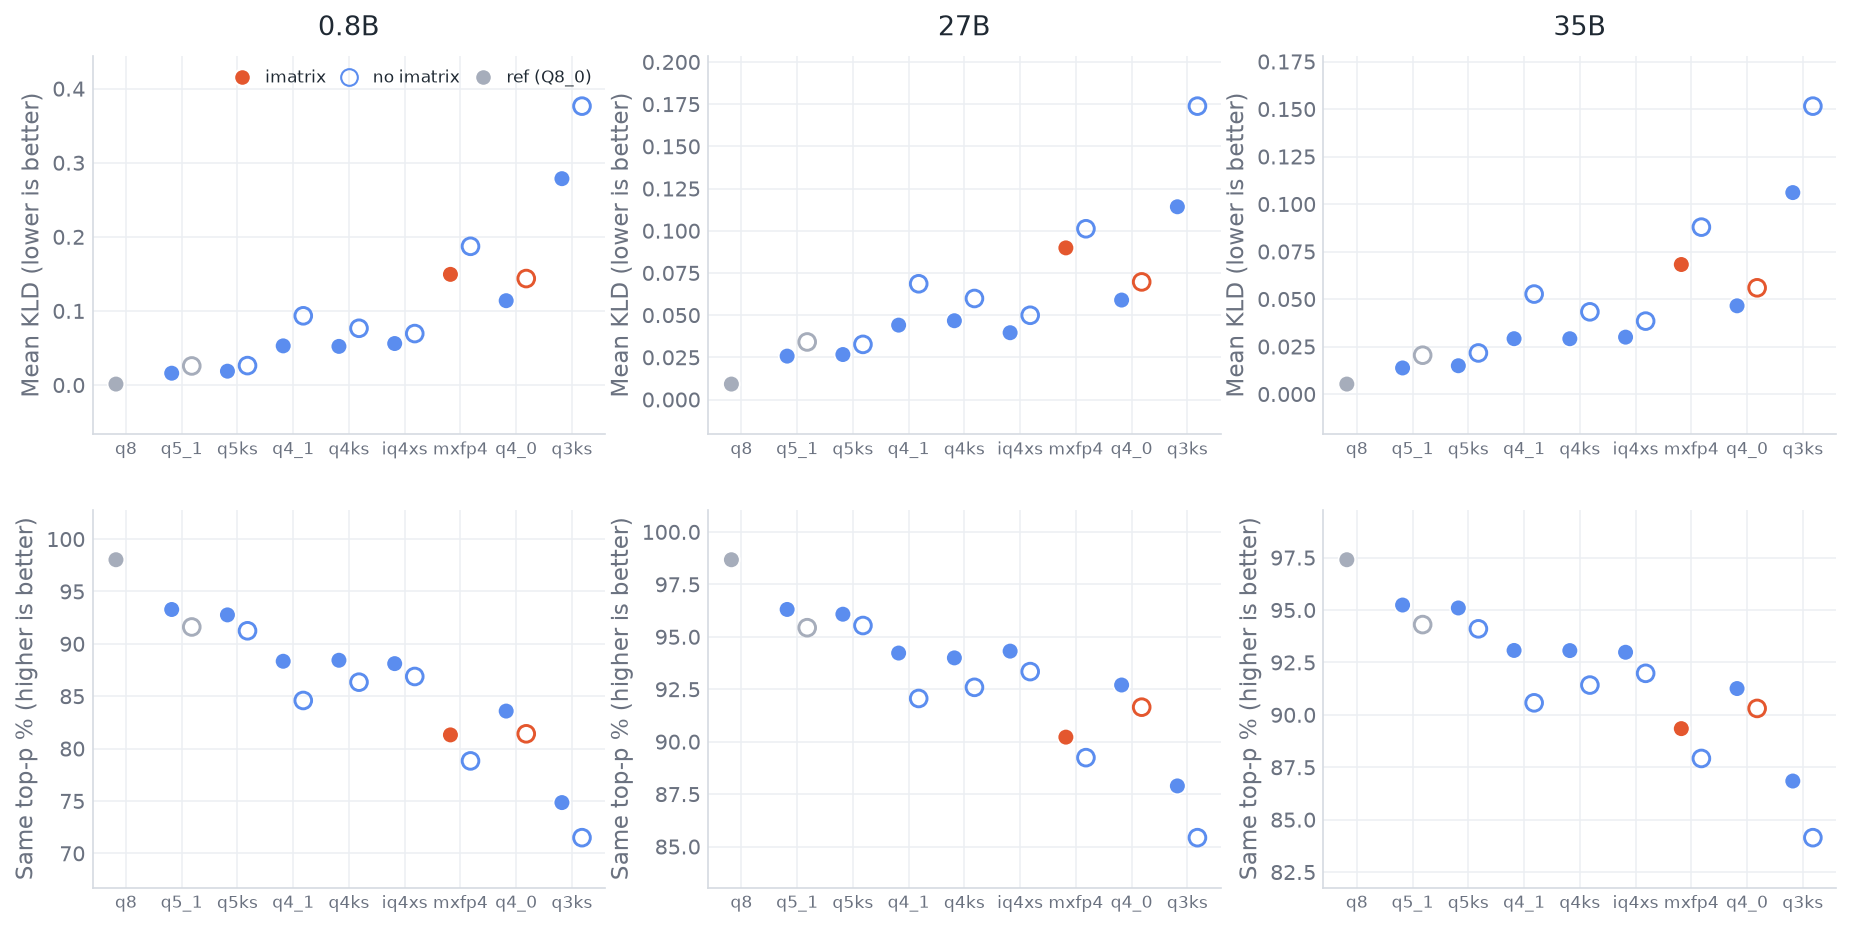
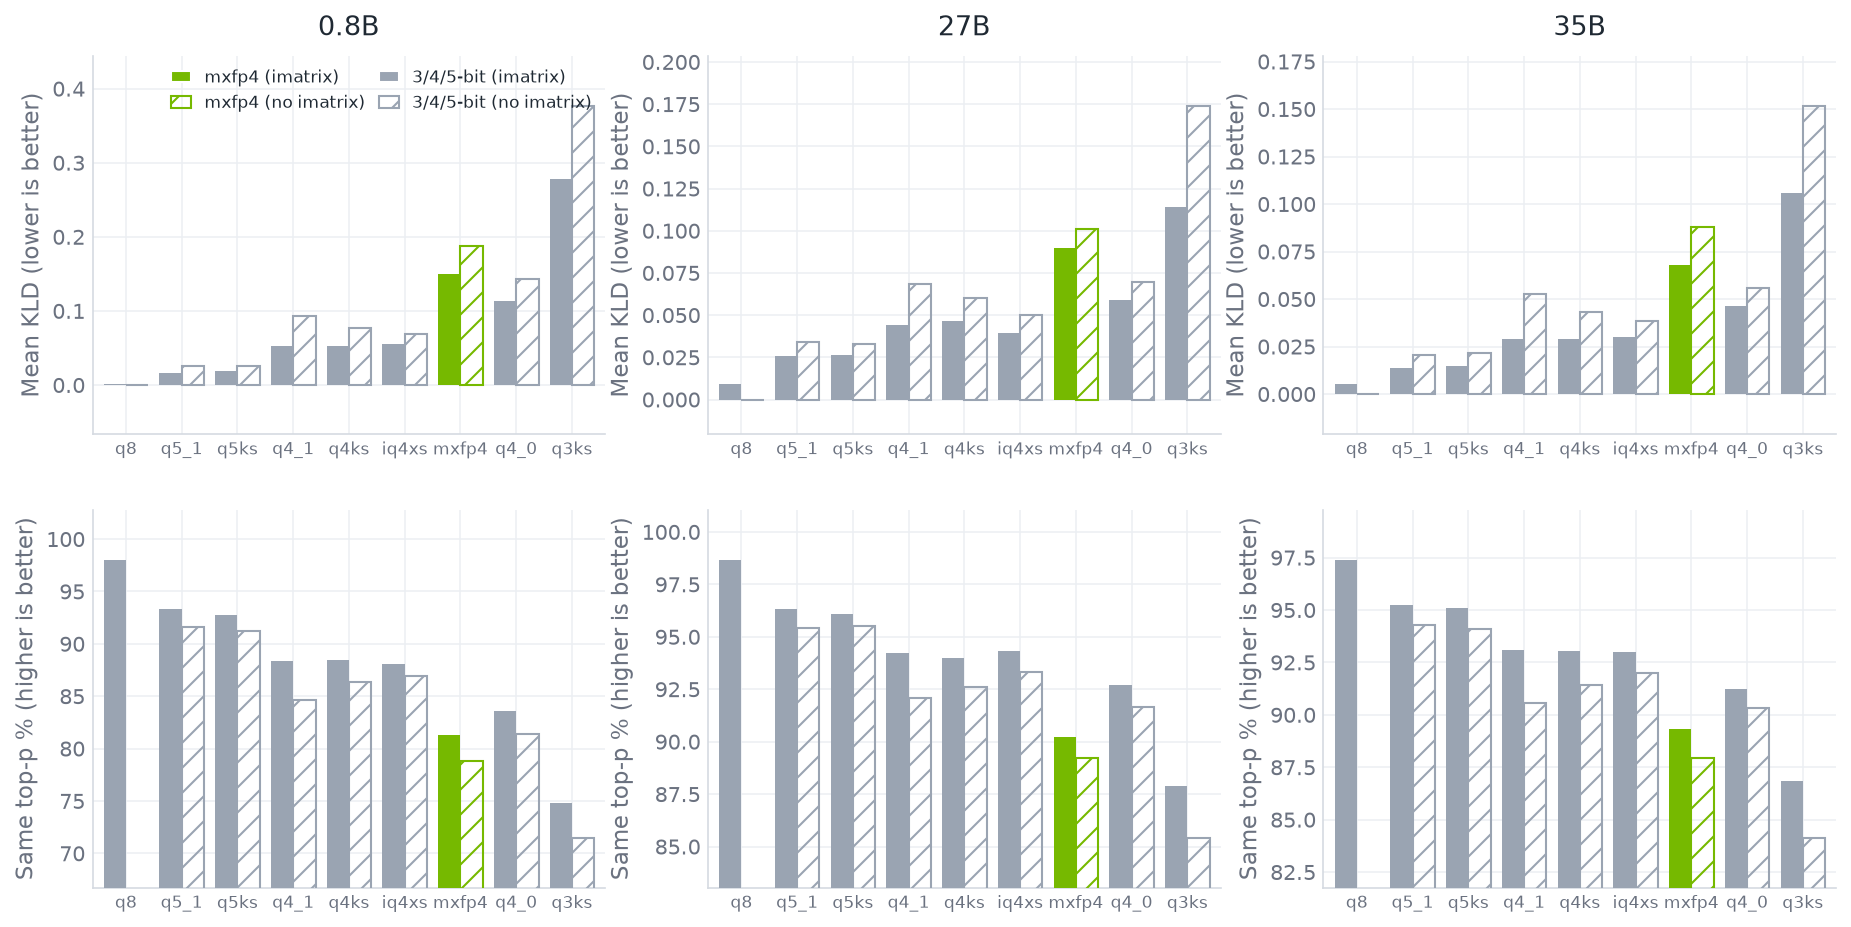
Charts: mxfp4=NVIDIA green, others=gray, imx filled/no-imx hatched or hollow; KL to bar charts; KV decode log scale; ppl legend top-right per chart, 3/4/5-bit family; PR body 'Tested using 2x 5060 Ti...'

diff --git a/charts.py b/charts.py
@@ -19,9 +19,8 @@ OUT = os.path.dirname(os.path.abspath(__file__))
 
 # ------------------------------------------------------------------ design
 PALETTE = {
-    "accent":  "#E4572E",   # mxfp4 (the subject)
-    "family":  "#5B8DEF",   # 4/5-bit family
-    "ref":     "#A6ADBB",   # bf16 / Q8_0 references
+    "mx":      "#76B900",   # mxfp4 (NVIDIA green)
+    "other":   "#9AA4B2",   # everything else (all refs: bf16, Q8_0, q4*, q5*, q3*)
     "text":    "#1F2933",
     "muted":   "#6B7280",
     "grid":    "#ECEFF3",
@@ -125,58 +124,44 @@ PPL = {
 
 
 def scatter_quant_points(ax, rows):
-    """Plot one model's quants: family (blue), mxfp4 (accent, larger), refs (gray, diamond); label each point."""
-    # small per-point label offsets (dx, dy in points) to keep the tight 4-bit cluster legible
+    """Plot one model's quants: mxfp4 (NVIDIA green), everything else gray; imx filled, no-imx hollow."""
+    # small per-point label offsets (dx, dy in points) to keep the tight cluster legible
     off = {
         "bf16": (7, -15), "Q8_0": (7, -15), "q3ks": (7, 7),
         "q5_1": (7, 9), "q5ks": (7, 9), "q4_1": (11, -13),
         "q4ks": (6, 8), "q4_0": (7, -14), "iq4xs": (12, -1),
-        "mxfp4": (14, 4), "moe-recipe": (9, -16),
+        "mxfp4": (14, 4), "mxfp4_moe": (9, -16),
     }
-    fam_x, fam_y, acc_x, acc_y, moe_x, moe_y, ref_x, ref_y = [], [], [], [], [], [], [], []
-    pts = []
     for (name, size, imx, noimx, is_ref) in rows:
-        disp = "moe-recipe" if name == "mxfp4-moe" else name
-        pts.append((size, imx, disp, is_ref, name in ("mxfp4", "mxfp4-moe")))
-        if is_ref:
-            ref_x.append(size); ref_y.append(imx)
-        elif name == "mxfp4":
-            acc_x.append(size); acc_y.append(imx)
-        elif name == "mxfp4-moe":
-            moe_x.append(size); moe_y.append(imx)
-        else:
-            fam_x.append(size); fam_y.append(imx)
-    ax.scatter(fam_x, fam_y, s=42, c=PALETTE["family"], zorder=3, edgecolors="white", linewidths=0.6)
-    ax.scatter(ref_x, ref_y, s=54, marker="D", c=PALETTE["ref"], zorder=3, edgecolors="white", linewidths=0.6)
-    ax.scatter(acc_x, acc_y, s=120, c=PALETTE["accent"], zorder=5, edgecolors="white", linewidths=1.0)
-    ax.scatter(moe_x, moe_y, s=120, marker="D", c=PALETTE["accent"], zorder=5, edgecolors="white", linewidths=1.0)
-    for (x, y, disp, is_ref, is_mx) in pts:
+        disp = "mxfp4_moe" if name == "mxfp4-moe" else name
+        is_mx = name in ("mxfp4", "mxfp4-moe")
+        col = PALETTE["mx"] if is_mx else PALETTE["other"]
+        marker = "D" if name == "mxfp4-moe" else "o"
+        s = 110 if is_mx else 46
+        ax.scatter([size], [imx], s=s, c=col, marker=marker, zorder=5, edgecolors="white", linewidths=0.8)
+        if noimx is not None:
+            ax.scatter([size], [noimx], s=s, facecolors="none", edgecolors=col, linewidths=1.6, marker=marker, zorder=4)
         dx, dy = off.get(disp, (7, 8))
-        col = PALETTE["muted"] if is_ref else (PALETTE["accent"] if is_mx else PALETTE["text"])
-        ax.annotate(disp, (x, y), textcoords="offset points", xytext=(dx, dy),
-                    fontsize=7, color=col, ha="left", va="bottom", zorder=6)
-    return [
-        Line2D([0], [0], marker="o", ls="", ms=9, mec="white", mfc=PALETTE["accent"], label="mxfp4 (all)"),
-        Line2D([0], [0], marker="D", ls="", ms=9, mec="white", mfc=PALETTE["accent"], label="mxfp4 (MoE recipe)"),
-        Line2D([0], [0], marker="o", ls="", ms=7, mec="white", mfc=PALETTE["family"], label="4/5-bit family"),
-        Line2D([0], [0], marker="D", ls="", ms=8, mec="white", mfc=PALETTE["ref"], label="ref (bf16 / Q8_0)"),
-    ]
+        ax.annotate(disp, (size, imx), textcoords="offset points", xytext=(dx, dy),
+                    fontsize=7, color=(PALETTE["mx"] if is_mx else PALETTE["muted"]),
+                    ha="left", va="bottom", zorder=6)
+    items = [Line2D([0], [0], marker="o", ls="", ms=9, mec="white", mfc=PALETTE["mx"], label="mxfp4")]
+    if any(r[0] == "mxfp4-moe" for r in rows):
+        items.append(Line2D([0], [0], marker="D", ls="", ms=9, mec="white", mfc=PALETTE["mx"], label="mxfp4_moe"))
+    items.append(Line2D([0], [0], marker="o", ls="", ms=7, mec="white", mfc=PALETTE["other"], label="3/4/5-bit family"))
+    ax.legend(handles=items, loc="upper right", frameon=False, fontsize=8, ncol=1, handlelength=1.4, borderaxespad=0.5)
+    return
 
 
 def ppl_vs_size():
     fig, axgrid = new_figure(1, 3, w=5.4, h=4.3)
-    handles = None
     for ax, (model, rows) in zip(axgrid, PPL.items()):
         style_axes(ax, title=model, xlabel="file size (GB)", ylabel="PPL")
-        h = scatter_quant_points(ax, rows)
-        if handles is None:
-            handles = h
+        scatter_quant_points(ax, rows)
         ax.set_xlim(min(r[1] for r in rows) * 0.9, max(r[1] for r in rows) * 1.08)
         ymin, ymax = min(r[2] for r in rows), max(r[2] for r in rows)
         pad = (ymax - ymin) * 0.15
         ax.set_ylim(ymin - pad, ymax + pad)
-    legend_items(axgrid[0], handles, loc="lower right", frameon=False, fontsize=9,
-                             ncol=1, handlelength=1.4, borderaxespad=0.6)
     save(fig, "ppl-vs-size.png")
     return
 
@@ -193,11 +178,7 @@ KV = {
 }
 
 def kv_color(t):
-    if t == "f16":
-        return PALETTE["ref"]
-    if t == "mxfp4":
-        return PALETTE["accent"]
-    return PALETTE["family"]
+    return PALETTE["mx"] if t == "mxfp4" else PALETTE["other"]
 
 def kv_cache():
     fig, ax = new_figure(2, 3, w=5.0, h=3.5)
@@ -211,7 +192,8 @@ def kv_cache():
         style_axes(axt, ylabel="decode (t/s)" if col == 0 else None)
         bt = axt.bar(KV_TYPES, [d["tg"][t] for t in KV_TYPES], color=[kv_color(t) for t in KV_TYPES], width=0.72)
         axt.bar_label(bt, fmt="%.1f", fontsize=7, color=PALETTE["text"], padding=2)
-        axt.set_ylim(0, max(d["tg"].values()) * 1.22)
+        axt.set_yscale("log")
+        axt.set_ylim(min(d["tg"].values()) * 0.9, max(d["tg"].values()) * 1.08)
     save(fig, "kv-cache.png")
 
 # ------------------------------------------------------------------ KL + top-p
@@ -254,29 +236,27 @@ KL = {
 }
 
 def _kl_color(q):
-    if q == "q8":
-        return PALETTE["ref"]
-    if q == "mxfp4":
-        return PALETTE["accent"]
-    return PALETTE["family"]
+    return PALETTE["mx"] if q == "mxfp4" else PALETTE["other"]
+
 
 def _plot_kl_panel(ax, d, key):
-    xs = list(range(len(KL_ORDER)))
-    imx_x, imx_y = [], []
-    pl_x, pl_y = [], []
-    cols = []
-    for i, q in enumerate(KL_ORDER):
+    xs = np.arange(len(KL_ORDER))
+    w = 0.4
+    imx_x, noimx_x = xs - w/2, xs + w/2
+    imx_vals, noimx_vals, cols = [], [], []
+    for q in KL_ORDER:
         ik, it, pk, pt = d[q]
-        yv = ik if key == "kld" else it
-        imx_x.append(i - 0.18); imx_y.append(yv); cols.append(_kl_color(q))
-        if pk is not None:
-            pl_x.append(i + 0.18); pl_y.append(pk if key == "kld" else pt)
-    ax.scatter(imx_x, imx_y, s=64, c=cols, zorder=5, edgecolors="white", linewidths=0.8)
-    if pl_x:
-        ax.scatter(pl_x, pl_y, s=64, facecolors="none", edgecolors=cols[:len(pl_x)], linewidths=1.4, zorder=4)
+        imx_vals.append(ik if key == "kld" else it)
+        noimx_vals.append((pk if key == "kld" else pt) if pk is not None else None)
+        cols.append(_kl_color(q))
+    ax.bar(imx_x, imx_vals, width=w, color=cols, zorder=3)
+    has_noimx = [v is not None for v in noimx_vals]
+    if any(has_noimx):
+        ax.bar(noimx_x, [v if v is not None else 0 for v in noimx_vals], width=w,
+               color="none", hatch="//", edgecolor=cols, linewidth=1.0, zorder=3)
     ax.set_xticks(xs); ax.set_xticklabels(KL_ORDER, fontsize=8)
     ax.set_xlim(-0.6, len(KL_ORDER) - 0.4)
-    ys = imx_y + pl_y
+    ys = imx_vals + [v for v in noimx_vals if v is not None]
     ymin, ymax = min(ys), max(ys)
     pad = (ymax - ymin) * 0.18
     ax.set_ylim(ymin - pad, ymax + pad)
@@ -288,11 +268,14 @@ def kl_top_p():
         _plot_kl_panel(ax[col], d, "kld")
         style_axes(ax[3 + col], ylabel="Same top-p % (higher is better)")
         _plot_kl_panel(ax[3 + col], d, "topp")
-    handles = [Line2D([0], [0], marker="o", ls="", ms=8, mec="white", mfc=PALETTE["accent"], label="imatrix"),
-               Line2D([0], [0], marker="o", ls="", ms=8, mfc="none", mec=PALETTE["family"], label="no imatrix"),
-               Line2D([0], [0], marker="o", ls="", ms=8, mec="white", mfc=PALETTE["ref"], label="ref (Q8_0)")]
-    legend_items(ax[0], handles, loc="upper right", frameon=False, fontsize=8, ncol=3,
-                             handlelength=1.2, columnspacing=0.8, borderaxespad=0.4)
+    from matplotlib.patches import Patch
+    handles = [
+        Patch(facecolor=PALETTE["mx"], edgecolor="white", label="mxfp4 (imatrix)"),
+        Patch(facecolor="none", edgecolor=PALETTE["mx"], hatch="//", label="mxfp4 (no imatrix)"),
+        Patch(facecolor=PALETTE["other"], edgecolor="white", label="3/4/5-bit (imatrix)"),
+        Patch(facecolor="none", edgecolor=PALETTE["other"], hatch="//", label="3/4/5-bit (no imatrix)"),
+    ]
+    legend_items(ax[0], handles, loc="upper right", frameon=False, fontsize=8, ncol=2, handlelength=1.2, columnspacing=0.8, borderaxespad=0.4)
     save(fig, "kl-top-p.png")
 
 # ------------------------------------------------------------------ W4A8 vs W4A4
@@ -317,8 +300,8 @@ def w4a8_vs_w4a4():
         w = 0.38
         v4 = [W4A[m][i4] for m in models]
         v8 = [W4A[m][i8] for m in models]
-        ax[col].bar(x - w/2, v4, width=w, color=PALETTE["ref"], label="W4A4 (master)")
-        ax[col].bar(x + w/2, v8, width=w, color=PALETTE["accent"], label="W4A8 (branch)")
+        ax[col].bar(x - w/2, v4, width=w, color=PALETTE["other"], label="W4A4 (master)")
+        ax[col].bar(x + w/2, v8, width=w, color=PALETTE["mx"], label="W4A8 (branch)")
         ax[col].set_xticks(x); ax[col].set_xticklabels(models)
         for xi, (a, b) in enumerate(zip(v4, v8)):
             ax[col].text(xi - w/2, a, f"{a:g}", ha="center", va="bottom", fontsize=7, color=PALETTE["muted"])

diff --git a/PR-body.md b/PR-body.md
@@ -9,6 +9,8 @@ End-to-end MXFP4 for CUDA Blackwell, narrowed from #20609: dense MXFP4 ftype, W4
 
 ## Results
 
+Tested using 2x 5060 Ti 16GB throttled to 150/180W.
+
 **W4A8 (this PR) vs W4A4 - same mxfp4 files, isolated Blackwell MMA activation change:**
 
 ![W4A8 vs W4A4](https://raw.githubusercontent.com/timothyeburke/mxfp4-pr-assets/master/w4a8-vs-w4a4.png)
